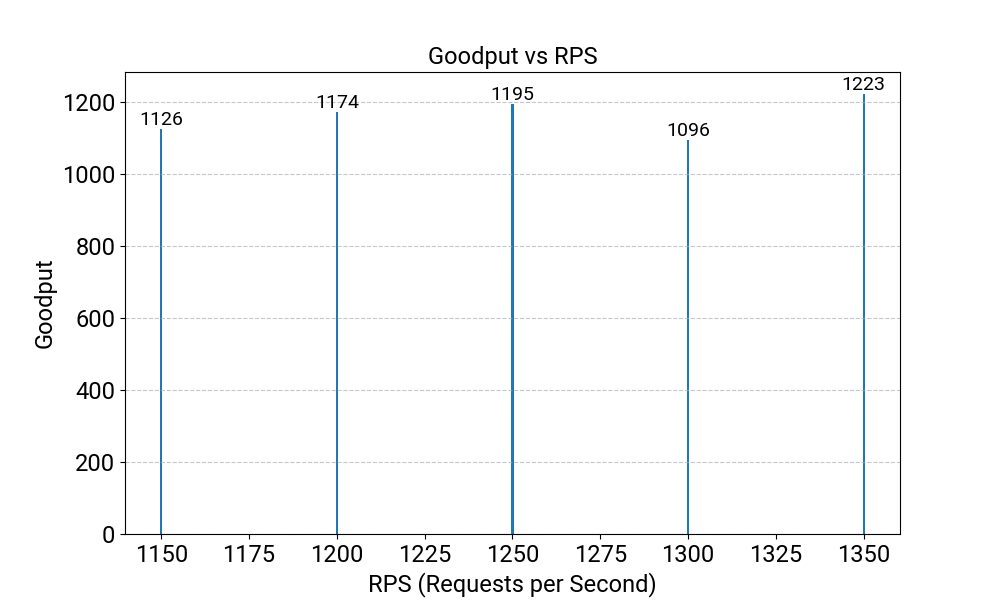
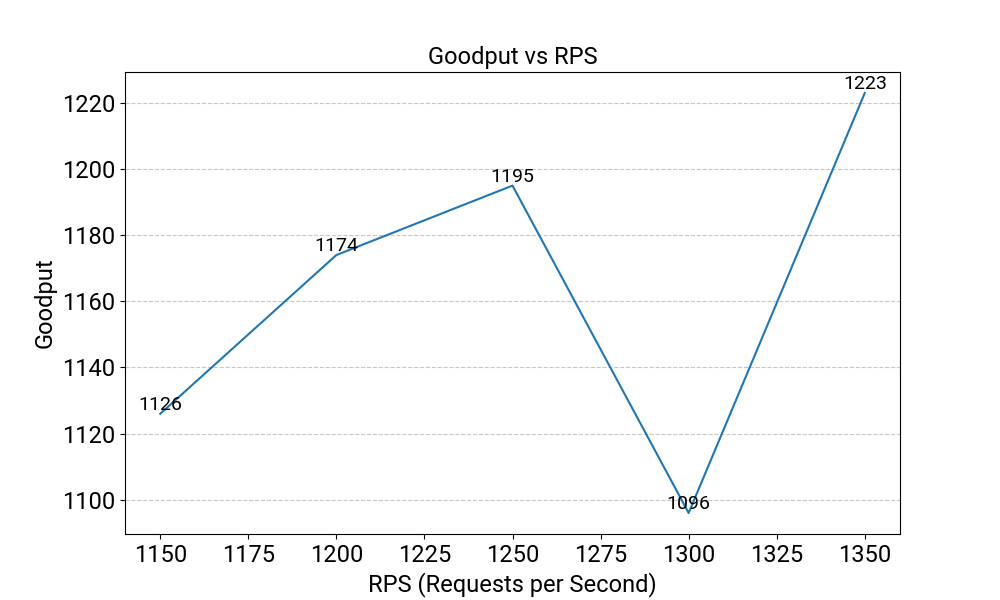
chore: Update figure style

diff --git a/reboot-hotel/snippets/prio_global/plot_core.py b/reboot-hotel/snippets/prio_global/plot_core.py
@@ -116,7 +116,7 @@ def plot_goodput(results: List[Dict[str, Any]], fig_name: str):
     goodput_values = [res["goodput"] for res in results]
 
     fig, ax = plt.subplots(figsize=(10, 6))
-    ax.bar(rps_values, goodput_values, color="tab:blue", width=0.6)
+    ax.plot(rps_values, goodput_values, color="tab:blue")
 
     ax.set_title("Goodput vs RPS", fontsize=fontsize)
     ax.set_xlabel("RPS (Requests per Second)", fontsize=fontsize)

diff --git a/reboot-hotel/snippets/prio_global_two/plot_core.py b/reboot-hotel/snippets/prio_global_two/plot_core.py
@@ -116,7 +116,7 @@ def plot_goodput(results: List[Dict[str, Any]], fig_name: str):
     goodput_values = [res["goodput"] for res in results]
 
     fig, ax = plt.subplots(figsize=(10, 6))
-    ax.bar(rps_values, goodput_values, color="tab:blue", width=0.6)
+    ax.plot(rps_values, goodput_values, color="tab:blue")
 
     ax.set_title("Goodput vs RPS", fontsize=fontsize)
     ax.set_xlabel("RPS (Requests per Second)", fontsize=fontsize)
